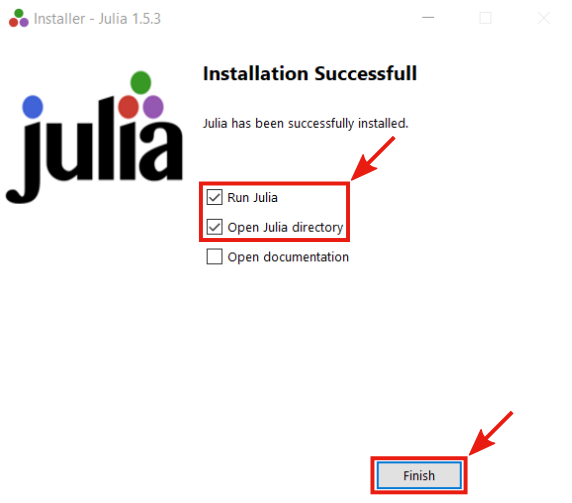
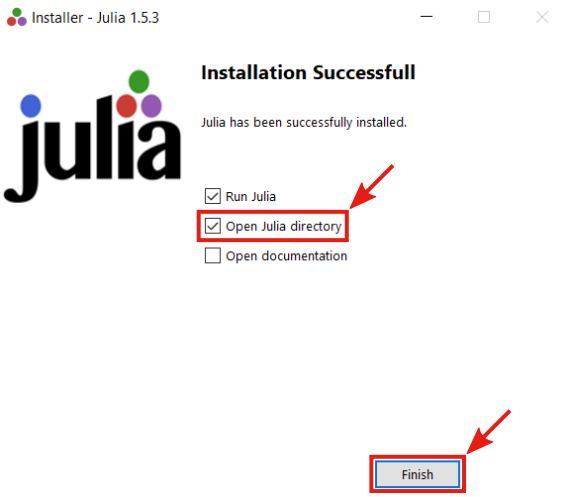
Finished julia.md

diff --git a/docs/src/installation/julia.md b/docs/src/installation/julia.md
@@ -1,43 +1,53 @@
 # Julia
 
-- The first step is to download the proper installation file from the official [download page](https://julialang.org/downloads/). In most cases, the proper version is the **64-bits** version for the Windows operation system
+In this section, we provide instructions on how to install all the software needed for the purposes of this course. However, we only provide installation instructions for Windows 10 operating system.
+
+Surprisingly the first thing we have to install is the Julia programming language. The first step is to download the proper installation file from the official [download page](https://julialang.org/downloads/). In most cases, the proper version is the **64-bits** version for the Windows operating system.
+
 ![](juliainstall_1.png)
 
-- **!!! TODO: add description !!!**
+If you're using an operating system other than Windows 10, follow the [platform-specific instructions](https://julialang.org/downloads/platform/). Otherwise, you can follow the instructions below. Run the downloaded Julia installer and follow the given instruction.
+
 ![](juliainstall_2.png)
 
-- **!!! TODO: add description !!!**
+There is no need to change the default settings. However, in the last window of the installer, make sure that the `Open Julia directory` option is selected
+
 ![](juliainstall_3.png)
 
-- **!!! TODO: add description !!!**
+After finishing the installation, the Julia terminal and the Julia directory in the file explorer should open. **Do not close the Julia directory, since we will need it later!!!**
+
 ![](juliainstall_4.png)
 
-## Adding Julia to PATH on Windows 10
+## Adding Julia to PATH
 
-- **!!! TODO: add description !!!**
+To invoke Julia by simply typing `julia` in the command line, the Julia executable directory needs to be added to `PATH`. Open the `Run` app using the shortcut `Windows key + R` or by typing `Run` in the search bar
+
 ![](juliapath_1.png)
 
-- **!!! TODO: add description !!!**
+Then type `rundll32 sysdm.cpl,EditEnvironmentVariables` into the `Run` app and press `OK`
+
 ![](juliapath_2.png)
 
-- **!!! TODO: add description !!!**
-> rundll32 sysdm.cpl,EditEnvironmentVariables
+After the previous step, the `Environment Variables` window should appear. Under the `User Variables` section, select the row with variable `Path` and click the `Edit` button
+
 ![](juliapath_3.png)
 
-- **!!! TODO: add description !!!**
+The `Edit environment variable` window will appear. Now we need to get the path to Julia bin folder. It can be done easily from the Julia directory opened by the Julia installer. In Julia directory navigate to the `bin` folder
+
 ![](juliapath_4.png)
 
-- **!!! TODO: add description !!!**
+In the Julia bin folder select and copy the path from the file explorer
+
 ![](juliapath_5.png)
 
-- **!!! TODO: add description !!!**
+Navigate back to the `Edit environment variable` window and select the first empty row, press the `Edit` button, and paste the path to the Julia `bin` folder. Then press the `OK` button to leave the window and again press `OK` in the `Environment Variables` to leave it too.
+
 ![](juliapath_6.png)
 
-- **!!! TODO: add description !!!**
+Finally, we can check, that we added the path correctly. Type `cmd` into the search bar and open the `Command Prompt`.
+
 ![](juliapath_7.png)
 
-- **!!! TODO: add description !!!**
-![](juliapath_8.png)
+In the `Command Prompt` type `julia` and press `Enter`. If everything is set correctly,  it will start a new Julia session
 
-- **!!! TODO: add description !!!**
-![](juliapath_9.png)
+![](juliapath_8.png)
